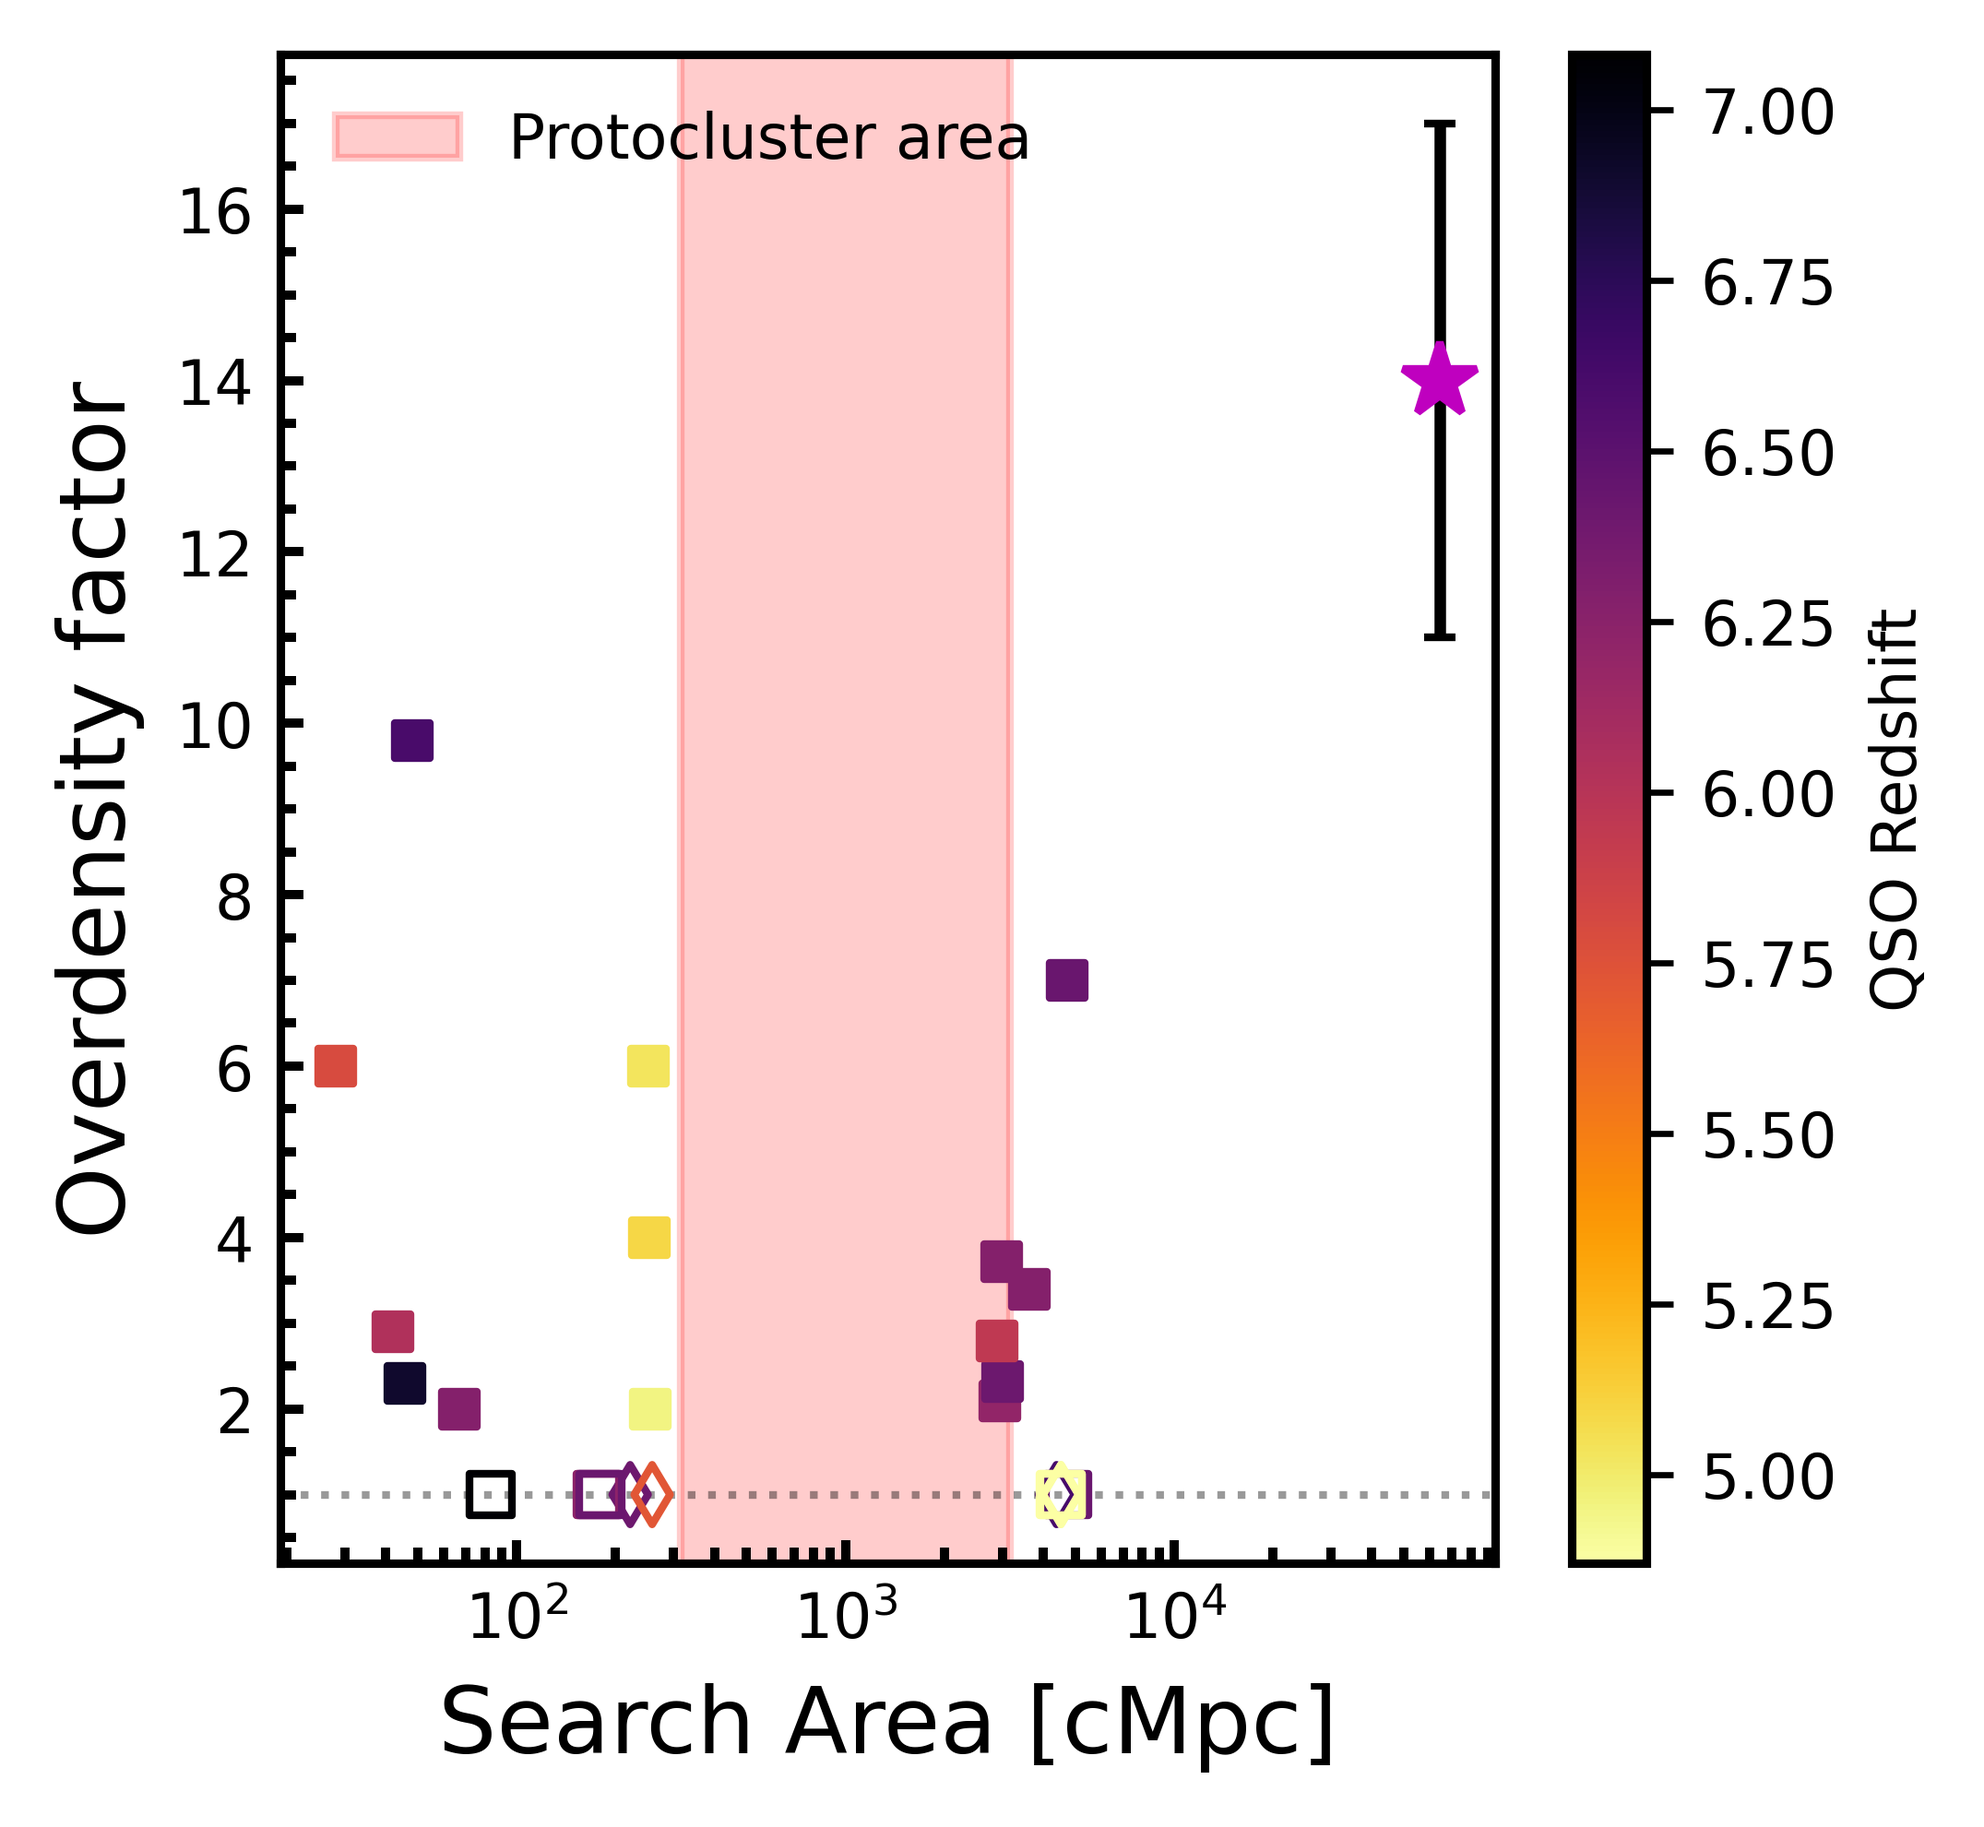
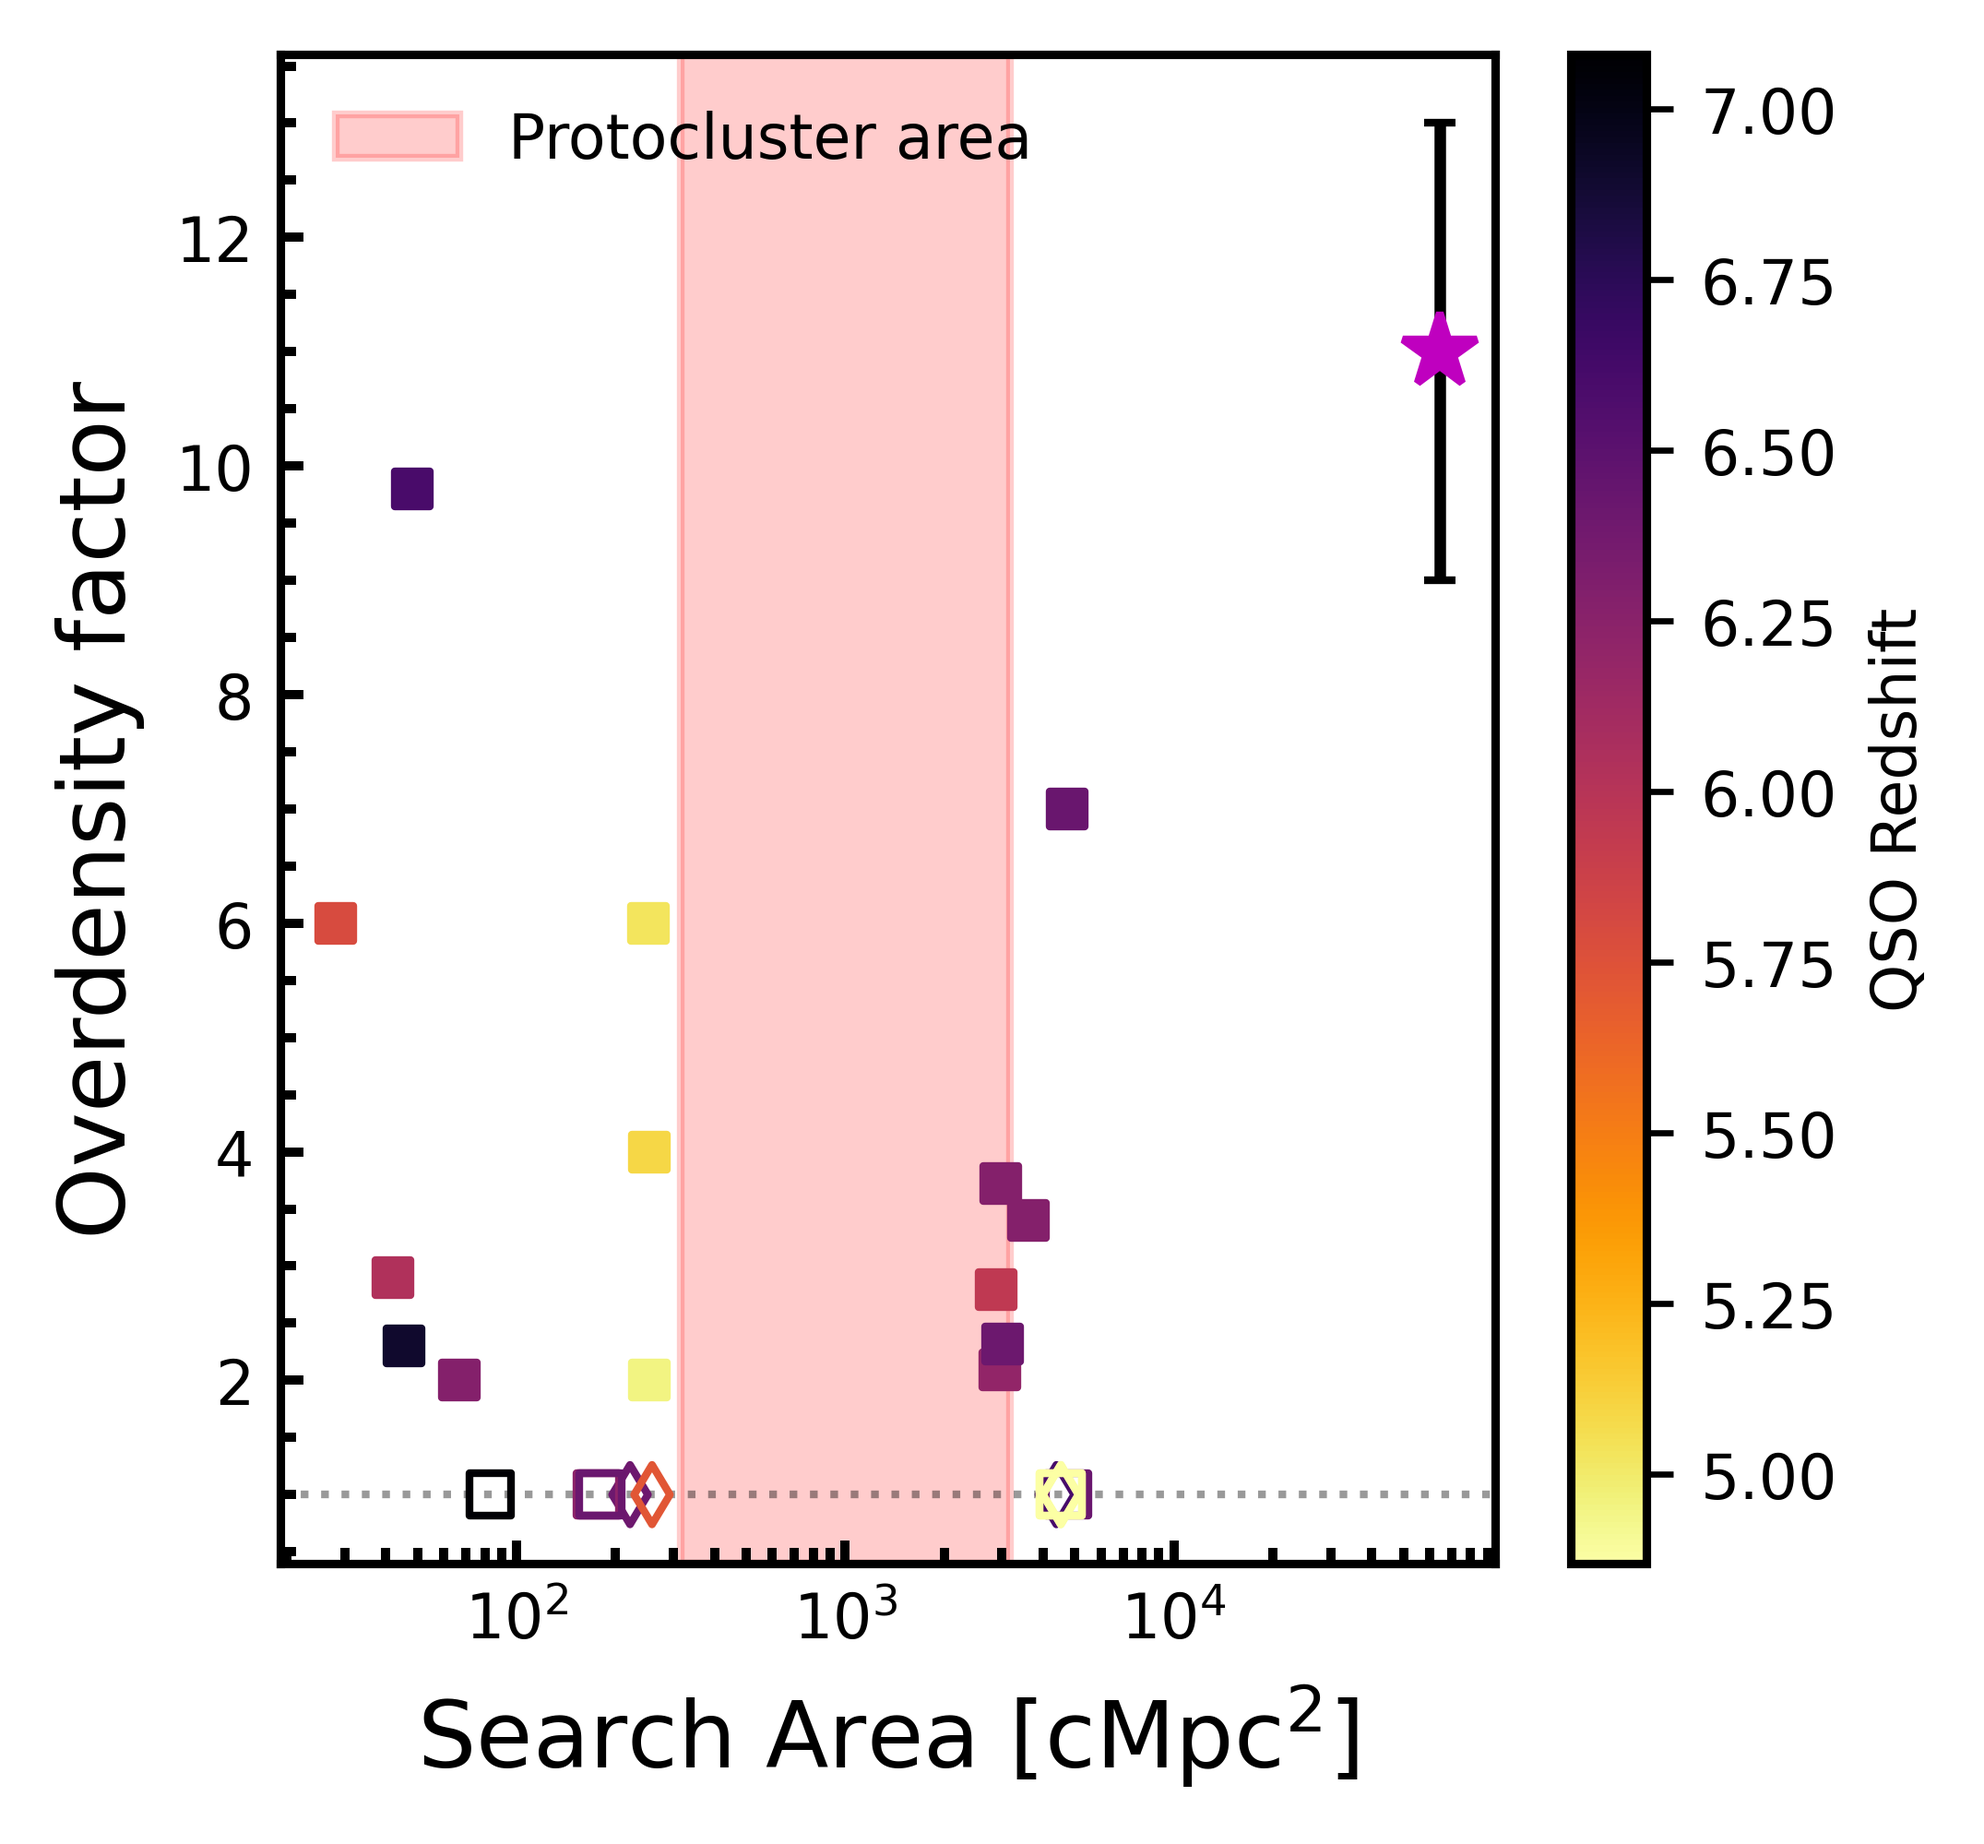
Fixing plots and adding observing script

diff --git a/scriptmaker.py b/scriptmaker.py
@@ -1,0 +1,93 @@
+##################################
+#
+# Script to make DECAM script 
+#
+##################################
+
+import numpy as np 
+from astropy.coordinates import SkyCoord 
+import astropy.units as u
+import json
+import datetime
+
+def prettifySkyCoords(SkyCoordObject):
+	stringWithLetters = SkyCoordObject.to_string('hmsdms')
+	letters = ['h','m','d']
+	for letter in letters:
+		stringWithLetters = stringWithLetters.replace(letter,':')
+
+	stringWithNoLetters = stringWithLetters.replace('s','')
+	return stringWithNoLetters
+
+class ExposureSequence():
+	def __init__(self,ra,dec,filterChoice,exptime,numberOfExposures):
+		self.ra = (int(ra.split(':')[0]) + int(ra.split(':')[1])/60 + float(ra.split(':')[2])/3600)*(360/24)
+		
+		if dec[0] == '-':
+			self.dec = int(dec.split(':')[0]) - int(dec.split(':')[1])/60 - float(dec.split(':')[2])/3600
+		else:
+			self.dec = int(dec.split(':')[0]) + int(dec.split(':')[1])/60 + float(dec.split(':')[2])/3600
+		
+		self.expTime = exptime
+		self.filterChoice = filterChoice
+		self.numberExposures = numberOfExposures
+
+	def dither(self):
+		decOffset = 5/60  # 5 arminute offset to play in center of field
+		ditherOffset = 120/3600 # 120 arcsecond dithers +-
+		raDithers = np.random.random(self.numberExposures)*2*ditherOffset - ditherOffset
+		decDithers = np.random.random(self.numberExposures)*2*ditherOffset - ditherOffset
+		self.raPositions = self.ra + raDithers 
+		self.decPositions = self.dec + decDithers + decOffset
+
+	def addSequence(self,fileVariable,includeEndComma=True):
+		self.dither()
+		for i in range(len(self.raPositions)):
+			c = SkyCoord(ra=self.raPositions[i]*u.deg, dec=self.decPositions[i]*u.deg)
+			cString = prettifySkyCoords(c)
+			raToWrite = cString.split(' ')[0]
+			decToWrite = cString.split(' ')[1]
+			fileVariable.write(' { \n')
+			fileVariable.write('  "expType": "object", \n')
+			fileVariable.write('  "object": "VIK_J2348-3054", \n')
+			fileVariable.write(f'  "RA": "{raToWrite}", \n')
+			fileVariable.write(f'  "dec": "{decToWrite}", \n')
+			fileVariable.write(f'  "filter": "{self.filterChoice}", \n')
+			fileVariable.write(f'  "expTime": {self.expTime} \n')
+			if i == self.numberExposures-1 and includeEndComma == False:
+				fileVariable.write(' } \n')
+			else:
+				fileVariable.write(' }, \n')
+
+def calculateTotalTime(scriptName):
+	f = open(scriptName)
+	data = json.load(f)
+	times = [val['expTime'] for val in data]
+	return np.sum(times) + 28*len(times)
+
+def printTotalTime(scriptName):
+	seconds = int(calculateTotalTime(scriptName))
+	print(str(datetime.timedelta(seconds=seconds)))
+	
+def constructScript(filename,*args):
+	f = open(filename,'w')
+	f.write('[ \n')
+	for i in range(len(args)):
+		if i == len(args)-1:
+			args[i].addSequence(f,includeEndComma=False)
+		else:
+			args[i].addSequence(f)
+	f.write('] \n')
+	f.close()
+
+	print('Total Time of Script ~ ', str(datetime.timedelta(seconds=int(calculateTotalTime(filename)))))
+
+if __name__ == '__main__':
+	RA =  '23:48:33.34'
+	Dec = '-30:54:10.0'
+	NarrowSequence_1  = ExposureSequence(RA,Dec,'i',200,10)
+	#NarrowSequence_1  = ExposureSequence(RA,Dec,'i',200,10)
+	constructScript('AssefLambert_i_band7.json',NarrowSequence_1)#,BroadSequence_1,NarrowSequence_2,BroadSequence_2)
+
+
+23:48:33.34 -30:54:10.0

diff --git a/Chiara_plot.py b/Chiara_plot.py
@@ -46,7 +46,7 @@ husband_2013_0338 = Observation('SDSS_J0338+0021', 5.027, 49*(u.arcmin**2), 6, '
 zheng_2006 = Observation('SDSS_J0836+0054', 5.8, 5*(u.arcmin**2), 6, 'LBG')
 utsumi_2010 = Observation('CFHQS_J2329-0301', 6.43, 0.219*(u.deg**2), 7, 'LBG')
 champagne_2023_3051 = Observation('VIK_J030516.92-315056.0', 6.6, 7.9*(u.arcmin**2), 9.8, 'LBG')
-lambert_2023 = Observation('VIK_2348-3054', 6.9, 2.87*(u.deg**2), 14, 'LBG')
+lambert_2023 = Observation('VIK_2348-3054', 6.9, 2.87*(u.deg**2), 11, 'LBG')
 kim_2009_1030 = Observation('SDSS J1030+0524', 6.28, 11.3 * (u.arcmin**2), 1.75, 'LBG')
 kim_2009_1630 = Observation('SDSS J1630+4012', 6.05, 11.3 * (u.arcmin**2), 1.375, 'LBG')
 
@@ -110,7 +110,7 @@ cmap = plt.cm.get_cmap('inferno_r')
 sm = ScalarMappable(norm=norm, cmap=cmap)
 
 
-start_plot('Search Area [cMpc]', 'Overdensity factor')
+start_plot(r'Search Area [cMpc$^{2}$]', 'Overdensity factor')
 for survey in surveys:
     color = sm.to_rgba(survey.qso_redshift)
     if survey.survey_type == 'LBG':
@@ -129,7 +129,7 @@ for survey in no_surveys:
     plt.scatter(survey.comoving_area, survey.overdensity_factor, s=30, facecolor='None', edgecolors=color, zorder=99, marker=SHAPE)
 
 plt.axhline(1, ls=':', color='k', lw=1, alpha=0.4)
-plt.errorbar(lambert_2023.comoving_area, lambert_2023.overdensity_factor, ms=10, c='m', marker='*', yerr=3, capsize=2, ecolor='k')
+plt.errorbar(lambert_2023.comoving_area, lambert_2023.overdensity_factor, ms=10, c='m', marker='*', yerr=2, capsize=2, ecolor='k')
 #plt.errorbar(lambert_2023.comoving_area, 10, ms=10, c='m', marker='*', yerr=7, capsize=2, ecolor='k')
 plt.axvspan(10**(2.5), 10**(3.5), color='r', alpha=0.2, label='Protocluster area')
 plt.legend(frameon=False)

diff --git a/make_candidate_latex_tables.py b/make_candidate_latex_tables.py
@@ -84,11 +84,12 @@ def get_z_band_mags(candidate_name: str, z_catalog_name: str) -> list[str]:
     catalog = SkyCoord(ra = cat.catalog['ALPHAPEAK_J2000']*u.deg, dec = cat.catalog['DELTAPEAK_J2000']*u.deg)
     idx, _, _  = candidates.match_to_catalog_sky(catalog)
     mags = np.array(cat.catalog['MAG_APER'][idx]) + zero_points.z_band.mag_correct(1)
-    mag_err = np.array(cat.catalog['MAGERR_APER'])
+    mag_err = np.array(cat.catalog['MAGERR_APER'][idx])
     mags, mag_err = np.around(mags, 2), np.around(mag_err, 2)
     mag_str = [f"{m:.2f}"for m in mags]
     mag_err_str = [f"{err:.2f}" for err in mag_err]
-    mag_strings = [f'{m} $\pm$ {err}' for m, err in zip(mag_str, mag_err_str)]
+
+    mag_strings = [f'{m} $\pm$ {err}' for m, err in zip(mags, mag_err)]
     return mag_strings
 
 def make_file(infile: str, outfile: str, lum_file:str=None, z_band_file: str = None) -> None:
